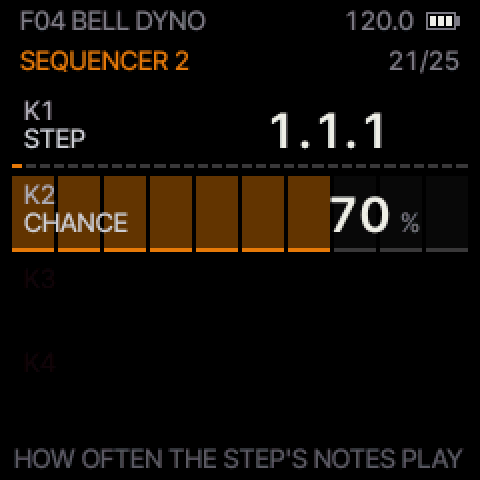
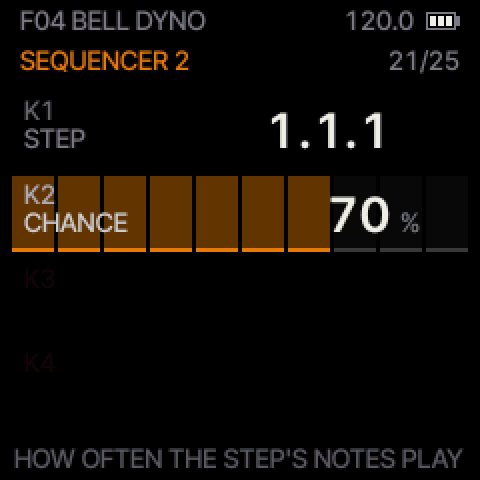
Docs: seq2.png again (STEP drawn as a gauge)
Tested: test_manual_shots, test_doc_links.

Changed region(s): [[0.0312, 0.3438, 0.9688, 0.375], [0.0312, 0.1875, 0.1875, 0.3125]]

diff --git a/docs/MANUAL.md b/docs/MANUAL.md
@@ -625,7 +625,7 @@ stored when the loop is stopped). Its second page, **SEQUENCER 2**, sets how oft
 
 ### SEQUENCER 2
 
-![SEQUENCER 2](manual/img/seq2.png?v=f9a4ecb0)
+![SEQUENCER 2](manual/img/seq2.png?v=ed0e61e4)
 
 The sequencer's second page, right after SEQUENCER (turn **SELECT** one page on). It makes a pattern change from pass
 to pass: each step can play every time, or only now and then.
